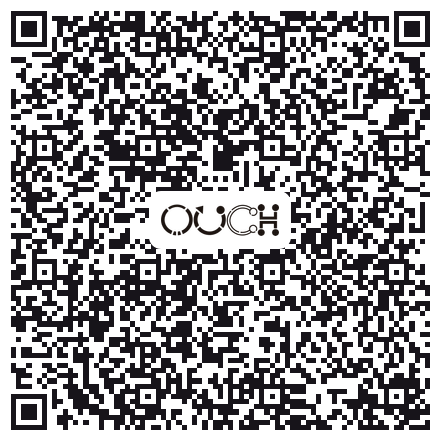
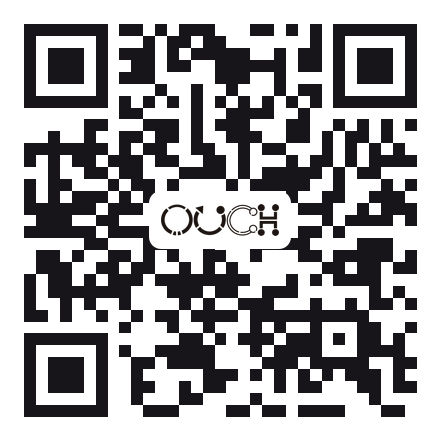
Digital card page at /card; QR opens it instead of a raw vCard
- Frosted-glass 100svh mobile card: founder cutout over blur-gradient
  blobs, logo + tagline, tap-to-call / WhatsApp / email / Instagram /
  shop rows, hero design language
- Standalone (card) route group without store chrome
- QR regenerated to https://oouucchh.com/card (logo center, decode-verified)

diff --git a/src/app/(card)/card/page.tsx b/src/app/(card)/card/page.tsx
@@ -1,0 +1,126 @@
+import Image from 'next/image'
+import React from 'react'
+
+const PHONE = '+917259956780'
+const PHONE_PRETTY = '+91 72599 56780'
+const EMAIL = 'oouucchhed@gmail.com'
+const INSTAGRAM = 'oouucchhed'
+
+const ACTIONS = [
+  {
+    label: 'Call us',
+    sub: PHONE_PRETTY,
+    href: `tel:${PHONE}`,
+    chip: 'bg-cyan',
+    icon: (
+      <svg fill="none" height="20" stroke="currentColor" strokeLinecap="round" strokeWidth="2" viewBox="0 0 24 24" width="20">
+        <path d="M21 16.5c0 1.4-1.1 2.5-2.5 2.5C10 19 5 14 5 5.5 5 4.1 6.1 3 7.5 3L10 5.5 8.5 8.5c1 2.5 2.5 4 5 5l3-1.5z" />
+      </svg>
+    ),
+  },
+  {
+    label: 'WhatsApp',
+    sub: 'fastest way, dude',
+    href: `https://wa.me/${PHONE.replace('+', '')}?text=${encodeURIComponent('Hey Ouch! 🤘')}`,
+    chip: 'bg-lime',
+    icon: (
+      <svg fill="currentColor" height="20" viewBox="0 0 24 24" width="20">
+        <path d="M17.472 14.382c-.297-.149-1.758-.867-2.03-.967-.273-.099-.471-.148-.67.15-.197.297-.767.966-.94 1.164-.173.199-.347.223-.644.075-.297-.15-1.255-.463-2.39-1.475-.883-.788-1.48-1.761-1.653-2.059-.173-.297-.018-.458.13-.606.134-.133.298-.347.446-.52.149-.174.198-.298.298-.497.099-.198.05-.371-.025-.52-.075-.149-.669-1.612-.916-2.207-.242-.579-.487-.5-.669-.51-.173-.008-.371-.01-.57-.01-.198 0-.52.074-.792.372-.272.297-1.04 1.016-1.04 2.479 0 1.462 1.065 2.875 1.213 3.074.149.198 2.096 3.2 5.077 4.487.709.306 1.262.489 1.694.625.712.227 1.36.195 1.871.118.571-.085 1.758-.719 2.006-1.413.248-.694.248-1.289.173-1.413-.074-.124-.272-.198-.57-.347m-5.421 7.403h-.004a9.87 9.87 0 01-5.031-1.378l-.361-.214-3.741.982.998-3.648-.235-.374a9.86 9.86 0 01-1.51-5.26c.001-5.45 4.436-9.884 9.888-9.884 2.64 0 5.122 1.03 6.988 2.898a9.825 9.825 0 012.893 6.994c-.003 5.45-4.437 9.884-9.885 9.884m8.413-18.297A11.815 11.815 0 0012.05 0C5.495 0 .16 5.335.157 11.892c0 2.096.547 4.142 1.588 5.945L.057 24l6.305-1.654a11.882 11.882 0 005.683 1.448h.005c6.554 0 11.89-5.335 11.893-11.893a11.821 11.821 0 00-3.48-8.413z" />
+      </svg>
+    ),
+  },
+  {
+    label: 'Email',
+    sub: EMAIL,
+    href: `mailto:${EMAIL}`,
+    chip: 'bg-pink',
+    icon: (
+      <svg fill="none" height="20" stroke="currentColor" strokeWidth="2" viewBox="0 0 24 24" width="20">
+        <rect height="16" rx="3" width="20" x="2" y="4" />
+        <path d="M2 7l10 6 10-6" />
+      </svg>
+    ),
+  },
+  {
+    label: 'Instagram',
+    sub: `@${INSTAGRAM}`,
+    href: `https://instagram.com/${INSTAGRAM}`,
+    chip: 'bg-purple',
+    icon: (
+      <svg fill="none" height="20" stroke="currentColor" strokeWidth="2" viewBox="0 0 24 24" width="20">
+        <rect height="18" rx="5" width="18" x="3" y="3" />
+        <circle cx="12" cy="12" r="4" />
+        <circle cx="17.5" cy="6.5" fill="currentColor" r="1" stroke="none" />
+      </svg>
+    ),
+  },
+  {
+    label: 'The shop',
+    sub: 'oouucchh.com',
+    href: 'https://oouucchh.com',
+    chip: 'bg-orange',
+    icon: (
+      <svg fill="none" height="20" stroke="currentColor" strokeWidth="2" viewBox="0 0 24 24" width="20">
+        <circle cx="12" cy="12" r="9" />
+        <path d="M3 12h18M12 3c3 3.5 3 14 0 18M12 3c-3 3.5-3 14 0 18" />
+      </svg>
+    ),
+  },
+]
+
+export default function CardPage() {
+  return (
+    <main className="relative flex min-h-svh items-center justify-center overflow-hidden bg-[#080808] px-4 py-10 text-white">
+      {/* blur gradient blobs */}
+      <div aria-hidden className="absolute -top-24 -left-24 h-96 w-96 rounded-full bg-pink opacity-35 blur-3xl" />
+      <div aria-hidden className="absolute top-1/3 -right-28 h-96 w-96 rounded-full bg-purple opacity-40 blur-3xl" />
+      <div aria-hidden className="absolute -bottom-28 left-1/4 h-80 w-80 rounded-full bg-cyan opacity-25 blur-3xl" />
+      <div aria-hidden className="absolute top-10 right-1/4 h-52 w-52 rounded-full bg-yellow opacity-20 blur-3xl" />
+
+      {/* frosted card */}
+      <div className="relative w-full max-w-sm rounded-3xl border border-white/15 bg-white/10 p-7 pt-0 text-center shadow-[0_24px_70px_rgba(0,0,0,0.55)] backdrop-blur-xl">
+        {/* founder cutout overlapping the top */}
+        <div className="relative mx-auto -mt-24 h-48 w-48">
+          <Image
+            alt="The Ouch founder"
+            className="object-contain drop-shadow-[0_12px_28px_rgba(0,0,0,0.6)] [mask-image:linear-gradient(to_bottom,black_82%,transparent_100%)]"
+            fill
+            priority
+            sizes="12rem"
+            src="/brand/covers/hero-cutout.png"
+          />
+        </div>
+
+        {/* eslint-disable-next-line @next/next/no-img-element */}
+        <img alt="Ouch" className="mx-auto mt-2 h-9 w-auto" src="/brand/logo-white.png" />
+        <p className="text-poster mt-2 text-[12px] tracking-[0.16em] uppercase">
+          Peace. Love. <span className="text-pink">Piercings.</span>
+        </p>
+        <p className="mt-1 text-[13px] text-white/70">Rare silver studs &amp; hoops · Bengaluru</p>
+
+        <div className="mt-6 space-y-3">
+          {ACTIONS.map((a) => (
+            <a
+              className="flex items-center gap-4 rounded-2xl border border-white/15 bg-white/10 px-5 py-3.5 text-left backdrop-blur-md transition-transform duration-200 hover:scale-[1.03] active:scale-95"
+              href={a.href}
+              key={a.label}
+              rel={a.href.startsWith('http') ? 'noopener noreferrer' : undefined}
+              target={a.href.startsWith('http') ? '_blank' : undefined}
+            >
+              <span className={`flex h-11 w-11 shrink-0 items-center justify-center rounded-full text-white ${a.chip}`}>
+                {a.icon}
+              </span>
+              <span className="min-w-0">
+                <span className="text-poster block text-[14px] tracking-wide uppercase">{a.label}</span>
+                <span className="block truncate text-[12px] text-white/65">{a.sub}</span>
+              </span>
+              <span aria-hidden className="ml-auto text-white/50">→</span>
+            </a>
+          ))}
+        </div>
+
+        <p className="text-marker mt-6 text-[12px] text-white/55">Hey dude. Thanks for scanning 🤘</p>
+      </div>
+    </main>
+  )
+}

diff --git a/src/app/(card)/layout.tsx b/src/app/(card)/layout.tsx
@@ -1,0 +1,30 @@
+import type { Metadata } from 'next'
+import { Space_Grotesk } from 'next/font/google'
+import localFont from 'next/font/local'
+import React from 'react'
+
+import '../(frontend)/styles.css'
+
+const spaceGrotesk = Space_Grotesk({
+  subsets: ['latin'],
+  variable: '--font-space-grotesk',
+})
+
+const startStory = localFont({
+  src: '../../fonts/StartStory.ttf',
+  variable: '--font-start-story',
+})
+
+export const metadata: Metadata = {
+  title: 'Ouch — Peace. Love. Piercings.',
+  description: 'Say hi to Ouch — call, WhatsApp, or find us online.',
+  robots: { index: false },
+}
+
+export default function CardLayout({ children }: { children: React.ReactNode }) {
+  return (
+    <html className={`${spaceGrotesk.variable} ${startStory.variable}`} data-theme="dark" lang="en">
+      <body>{children}</body>
+    </html>
+  )
+}
